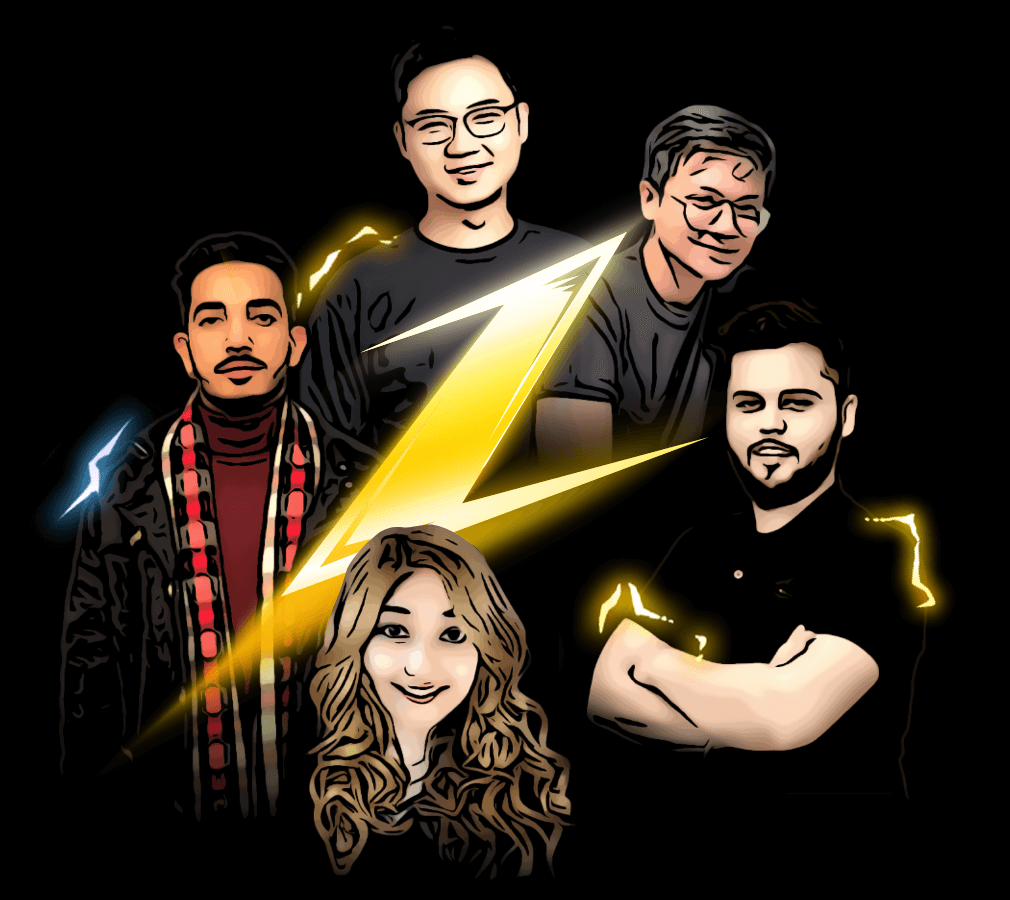
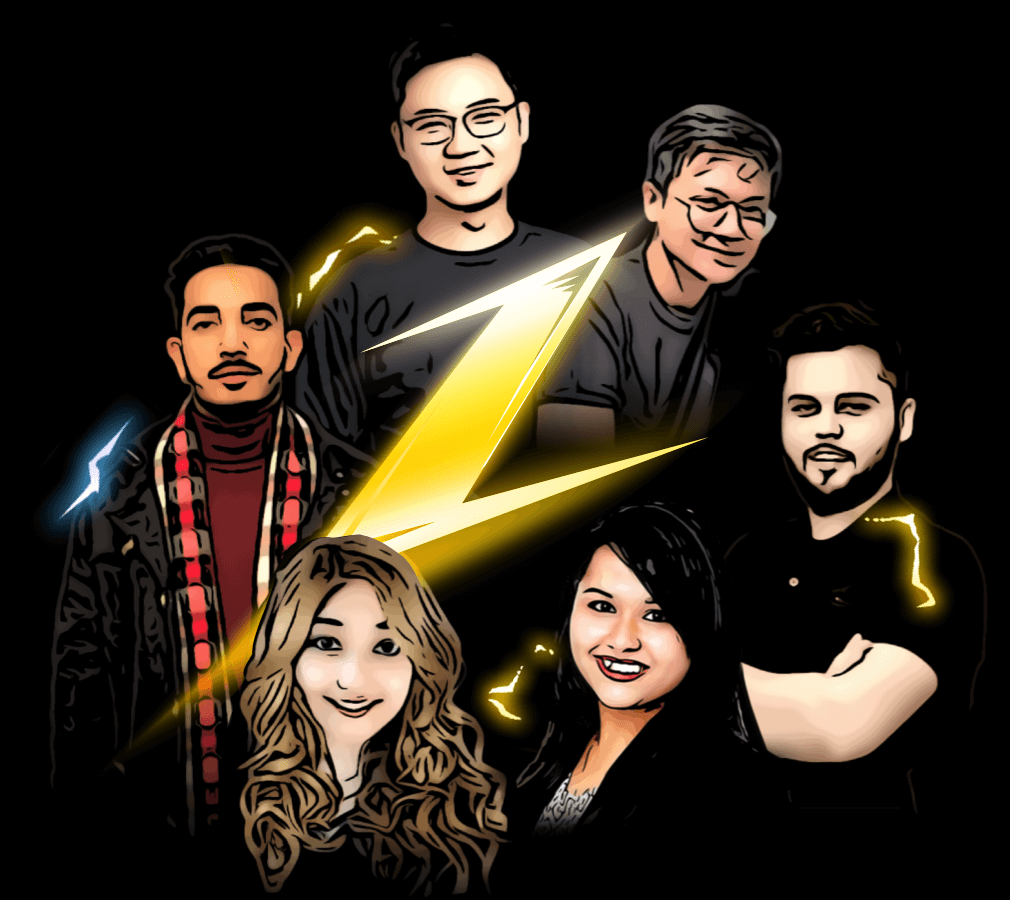
fix: change image

diff --git a/src/components/team/index.tsx b/src/components/team/index.tsx
@@ -31,6 +31,11 @@ const teamInfo = [
     avatar:require('@/assets/images/phone_1.png'),
     desc:`Forrest C is the founder of Hacker Interstellar(closed C-round $50 million Funding from Tencent in 2018), and co-founder of Umeng(acquired by Alibaba for 80 million dollars),  he is currently based in Singapore and lead a team focusing on web3 and NFTs. `
   },
+  {
+    name:'Swagata Das',
+    avatar:require('@/assets/images/phone_6.png'),
+    desc:`Swagata Das has an international education background: bachelors from India, exchange student at York University in Canada, international MBA graduate from Peking University. With a total of 7+ years of work experience in the tech industry, Swagata greatly focuses on ADDING VALUE in businesses and people. `
+  },
 ]
 
 export default function Team() {

diff --git a/src/components/team/index.less b/src/components/team/index.less
@@ -61,7 +61,7 @@
         height:54%;
         .touchShow {
           right: -88%;
-          top:98%;
+          top:86%;
         }
       }
       &:nth-of-type(3){
@@ -76,11 +76,11 @@
       }
       &:nth-of-type(4){
         top:58%;
-        left:30%;
+        left:25%;
         width:26%;
         height:40%;
         .touchShow {
-          left: 30%;
+          left: -45%;
           top: 96%;
         }
       }
@@ -92,6 +92,16 @@
         .touchShow {
           left: -100%;
           top: 30%;
+        }
+      }
+      &:nth-of-type(6){
+        top:58%;
+        left:50%;
+        width:26%;
+        height:40%;
+        .touchShow {
+          left: -6%;
+          top: 78%;
         }
       }
       &:hover {
